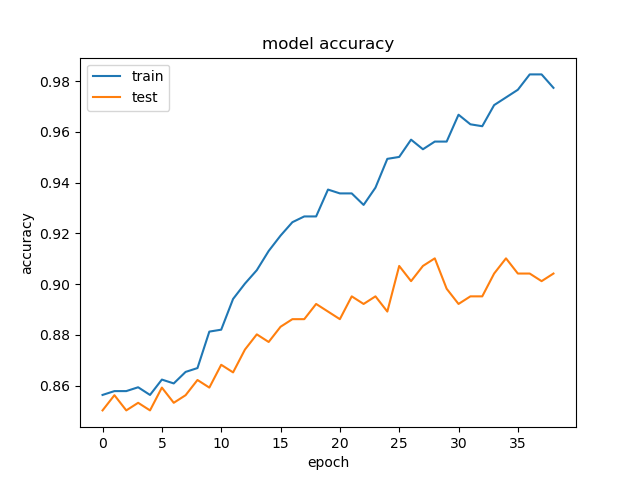
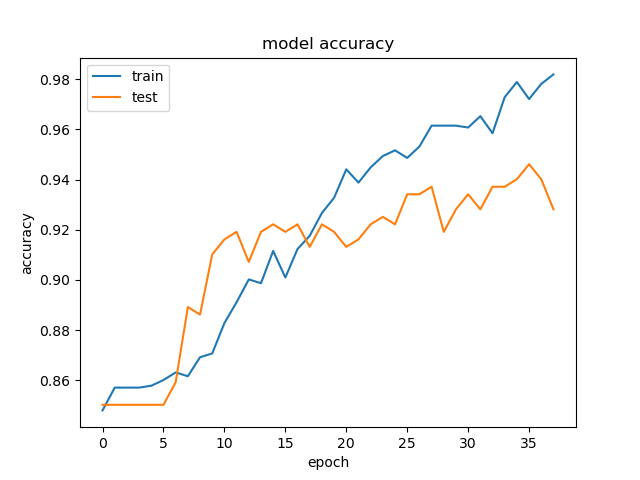
add new normalize helpers.py

diff --git a/train_pssm.py b/train_pssm.py
@@ -70,7 +70,7 @@ def models():
 def train(n_splits, path, batch_size, epochs, random_state):
     # read data
     data, labels = read_data(path, padding="pad_sequence")
-    data = normalize_data(data)
+    # data = normalize_data(data)
 
     # create 10-fold cross validation
     skf = StratifiedKFold(n_splits=n_splits, shuffle=True, random_state=random_state)
@@ -78,9 +78,16 @@ def train(n_splits, path, batch_size, epochs, random_state):
     i = 0
     for train_index, val_index in skf.split(data, labels):
         # split data
-        train_data = np.expand_dims(data[train_index], axis=-1).astype(np.float32)
+        train_data = data[train_index]
+        val_data = data[val_index]
+        # normalize data
+        train_data, train_sm, train_sd = normalize_common(train_data)
+        val_data = normalize(val_data, train_sm, train_sd)
+        print('train_sm: {}, train_sd: {}'.format(train_sm, train_sd))
+
+        train_data = np.expand_dims(train_data, axis=-1).astype(np.float32)
         train_labels = labels[train_index]
-        val_data = np.expand_dims(data[val_index], axis=-1).astype(np.float32)
+        val_data = np.expand_dims(val_data, axis=-1).astype(np.float32)
         val_labels = labels[val_index]
 
         train_data, train_labels = balance_data(train_data, train_labels)
@@ -120,9 +127,10 @@ def train(n_splits, path, batch_size, epochs, random_state):
             validation_data=(val_data, val_labels),
             # class_weight=weight,
             callbacks=callbacks,
-            shuffle=True
+            shuffle=True,
+            verbose=2
         )
-        model.save('saved_models/no weight 19387/' + get_model_name(i))
+        model.save('saved_models/no weight/' + get_model_name(i))
         plot_accuracy(history, i)
         plot_loss(history, i)
         plot_sensitivity(history, i)
@@ -133,37 +141,29 @@ def train(n_splits, path, batch_size, epochs, random_state):
 if __name__ == '__main__':
     path = 'data/csv/'
     test_path = 'data/test/independent_2/'
-    # n_splits = 5
-    # random_state = random.randint(0, 19999)
-    # print(random_state)
-    # BATCH_SIZE = 16
-    # EPOCHS = 100
-    # train(n_splits, path, BATCH_SIZE, EPOCHS, random_state)
+    n_splits = 5
+    random_state = random.randint(0, 19999)
+    print(random_state)
+    BATCH_SIZE = 16
+    EPOCHS = 100
+    train(n_splits, path, BATCH_SIZE, EPOCHS, random_state)
     data, labels = read_data(test_path, padding="pad_sequence")
-    data = normalize_data(data)
+    # data = normalize_data(data)
+
+    sm = -0.6398472222222161
+    sd = 1.8733625480452594
+    data = normalize(data, sm, sd)
+
     data = np.expand_dims(data, axis=-1).astype(np.float32)
 
-    model_paths = os.listdir("saved_models/no weight 19387/")
+    model_paths = os.listdir("saved_models/no weight/")
     model = []
     for model_path in model_paths:
-        model.append(keras.models.load_model("saved_models/no weight 19387/" + model_path,
+        model.append(keras.models.load_model("saved_models/no weight/" + model_path,
                                              custom_objects={"sensitivity": sensitivity,
                                                              "specificity": specificity}))
 
     pre = voting(model, data)
-    # pre_bin = np.argmax(pre, axis=-1)
-
-    # FP = []
-    # FN = []
-    #
-    # for i in range(len(labels)):
-    #     if pre_bin[i] == 1 and labels[i] == 0:
-    #         FP.append(pre[i])
-    #     elif pre_bin[i] == 0 and labels[i] == 1:
-    #         FN.append(pre[i])
-    #
-    # print('FP: ', FP)
-    # print('FN: ', FN)
 
     print("sen: " + str(sensitivity(labels, pre)))
     print("spe: " + str(specificity(labels, pre)))

diff --git a/utils/helpers.py b/utils/helpers.py
@@ -33,6 +33,28 @@ def normalize_data(datas):
     return data_copy
 
 
+def normalize_common(data):
+    sample_mean = 0
+    for sequence in data:
+        for row in sequence:
+            sample_mean += sum(row)
+    sample_mean /= (data.shape[0] * data.shape[1] * data.shape[2] + K.epsilon())
+
+    standard_deviation = 0
+    for sequence in data:
+        for row in sequence:
+            standard_deviation += sum([pow(x - sample_mean, 2) for x in row])
+    standard_deviation = math.sqrt(standard_deviation / (data.shape[0] * data.shape[1] * data.shape[2] + K.epsilon()))
+
+    data = (data - sample_mean) / (standard_deviation + K.epsilon())
+    return data, sample_mean, standard_deviation
+
+
+def normalize(data, sample_mean, standard_deviation):
+    data = (data - sample_mean) / (standard_deviation + K.epsilon())
+    return data
+
+
 def balance_data(data, labels):
     posi = []
     nega = []
